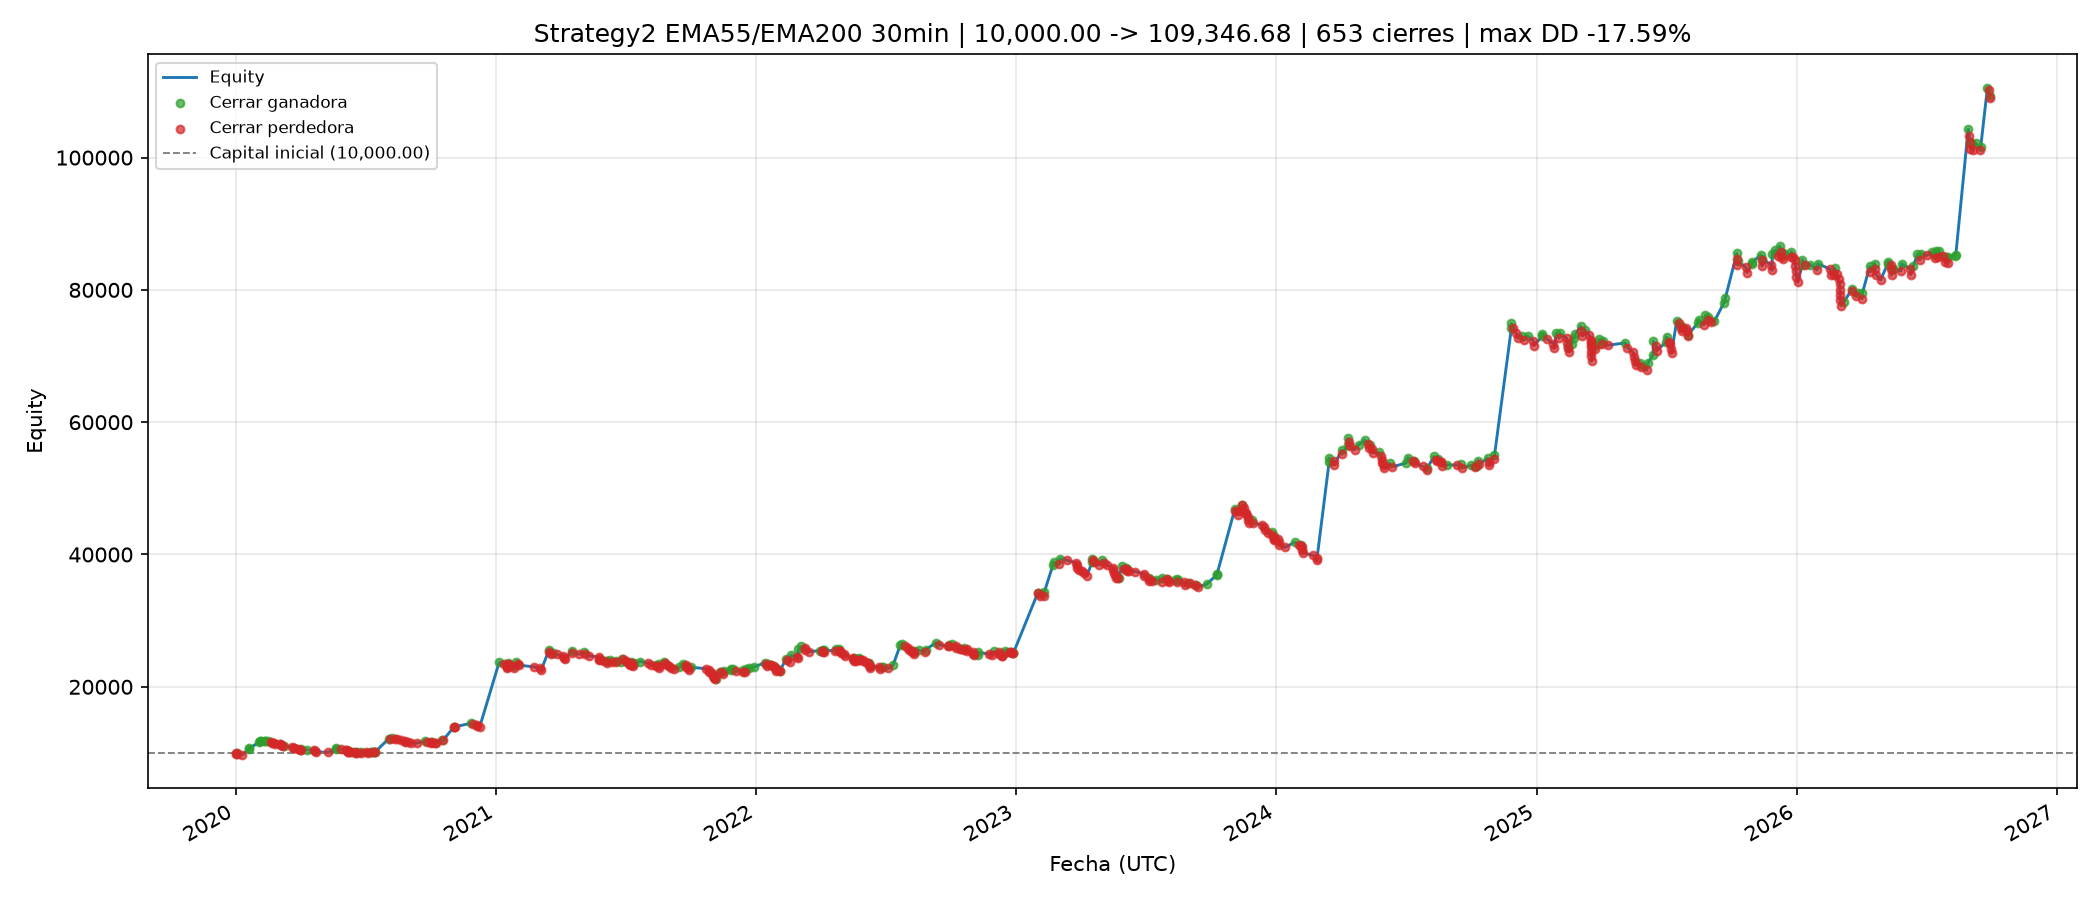
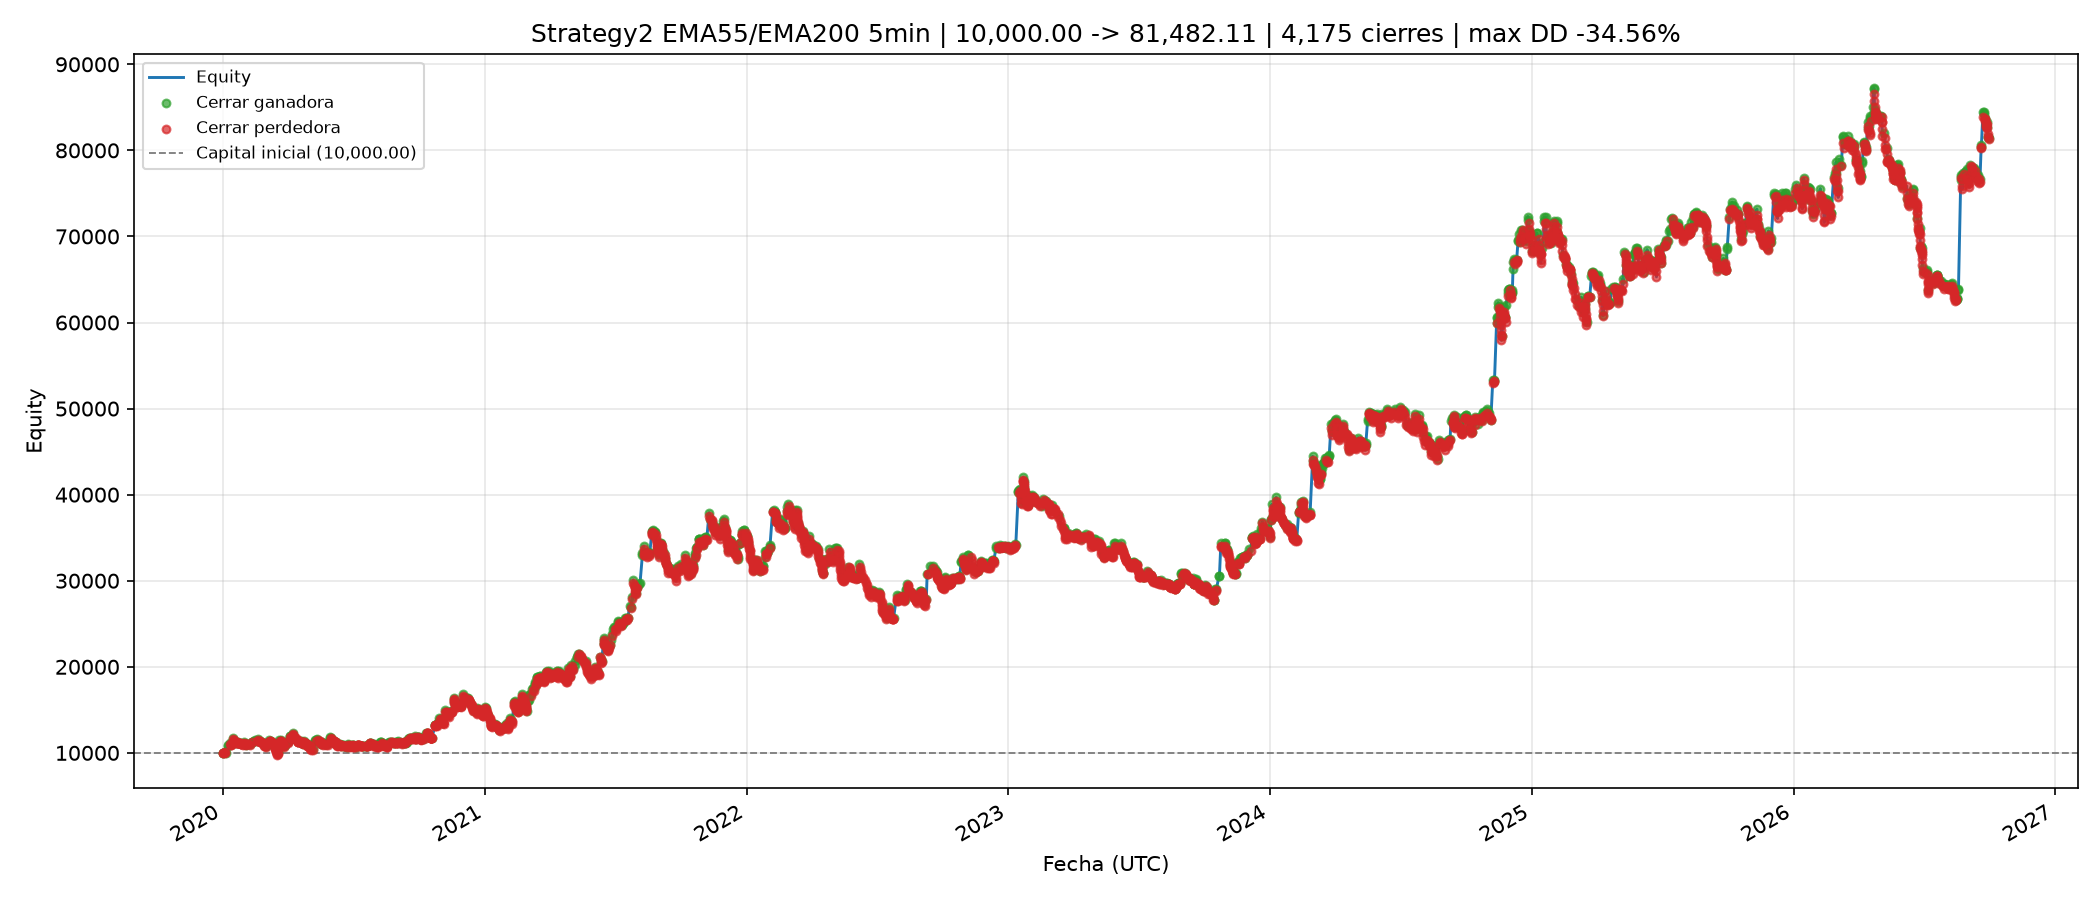
update

diff --git a/backend/services/backtest/bin/legacy/strategy/strategy2.py b/backend/services/backtest/bin/legacy/strategy/strategy2.py
@@ -78,7 +78,7 @@ class Config:
     ema_slow: int = 200
 
     # Timeframe de la estrategia.
-    timeframe: str = "30min"
+    timeframe: str = "5min"
 
     # Lados habilitados.
     allow_long: bool = True
@@ -120,7 +120,7 @@ class Config:
     # calculan en ese timeframe y la señal se alinea a las velas de
     # la estrategia.
     ema_weakening_exit_enabled: bool = True
-    ema_weakening_timeframe: str = "30min"
+    ema_weakening_timeframe: str = "5min"
     ema_weakening_gap_pct: float = 0.001
     ema_weakening_exit_pct: float = 100.0
 
